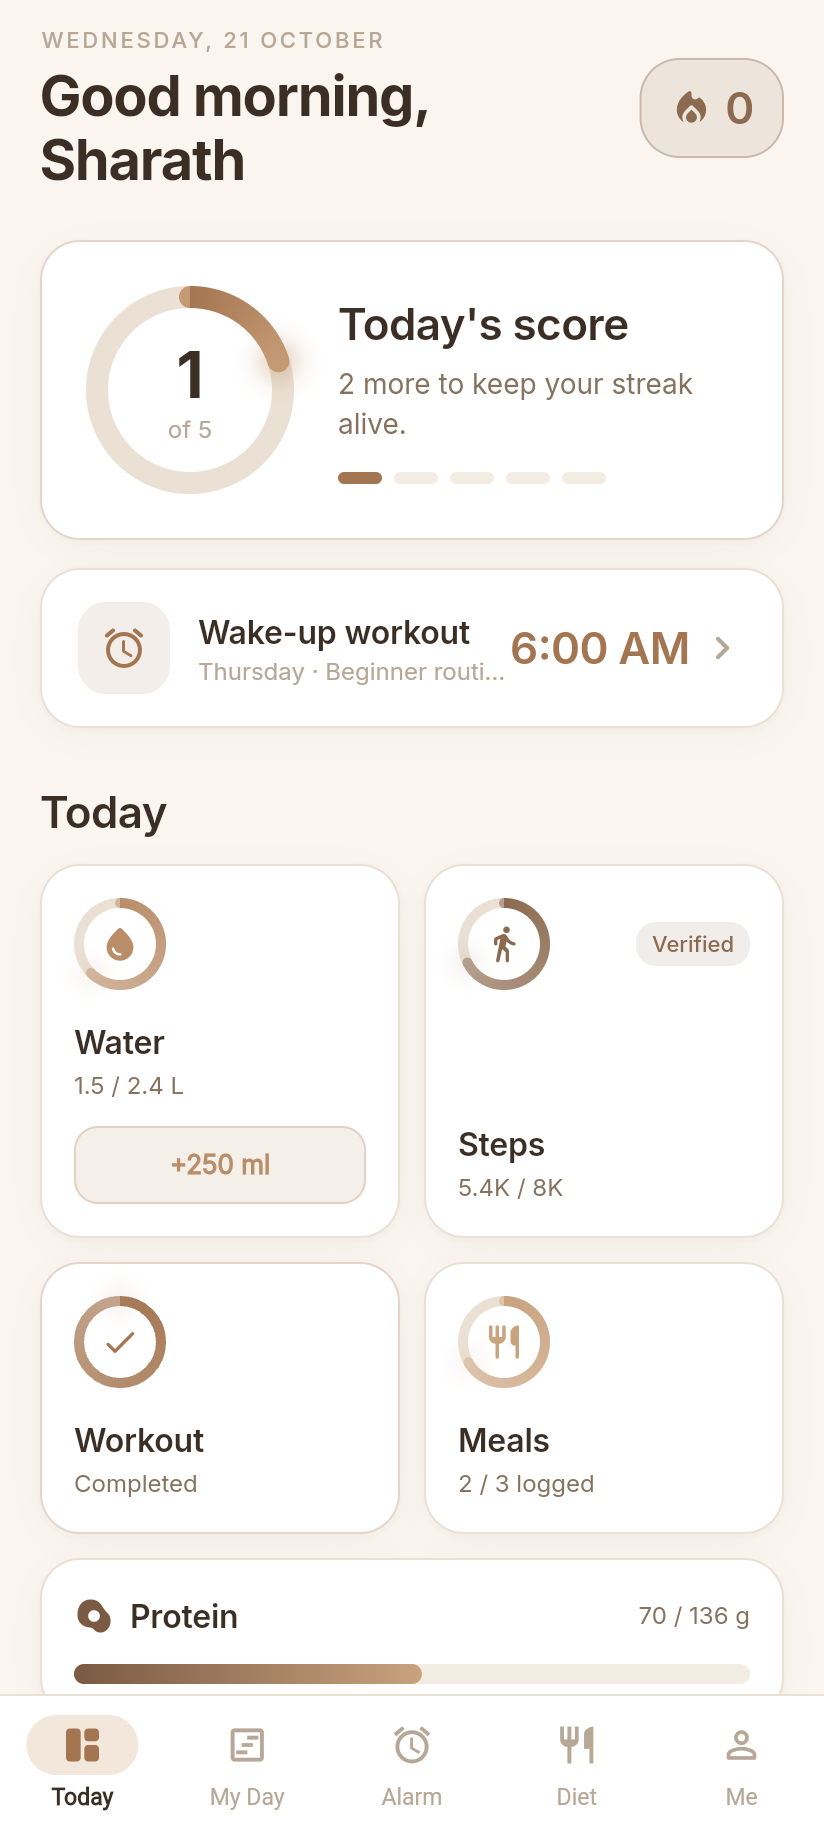
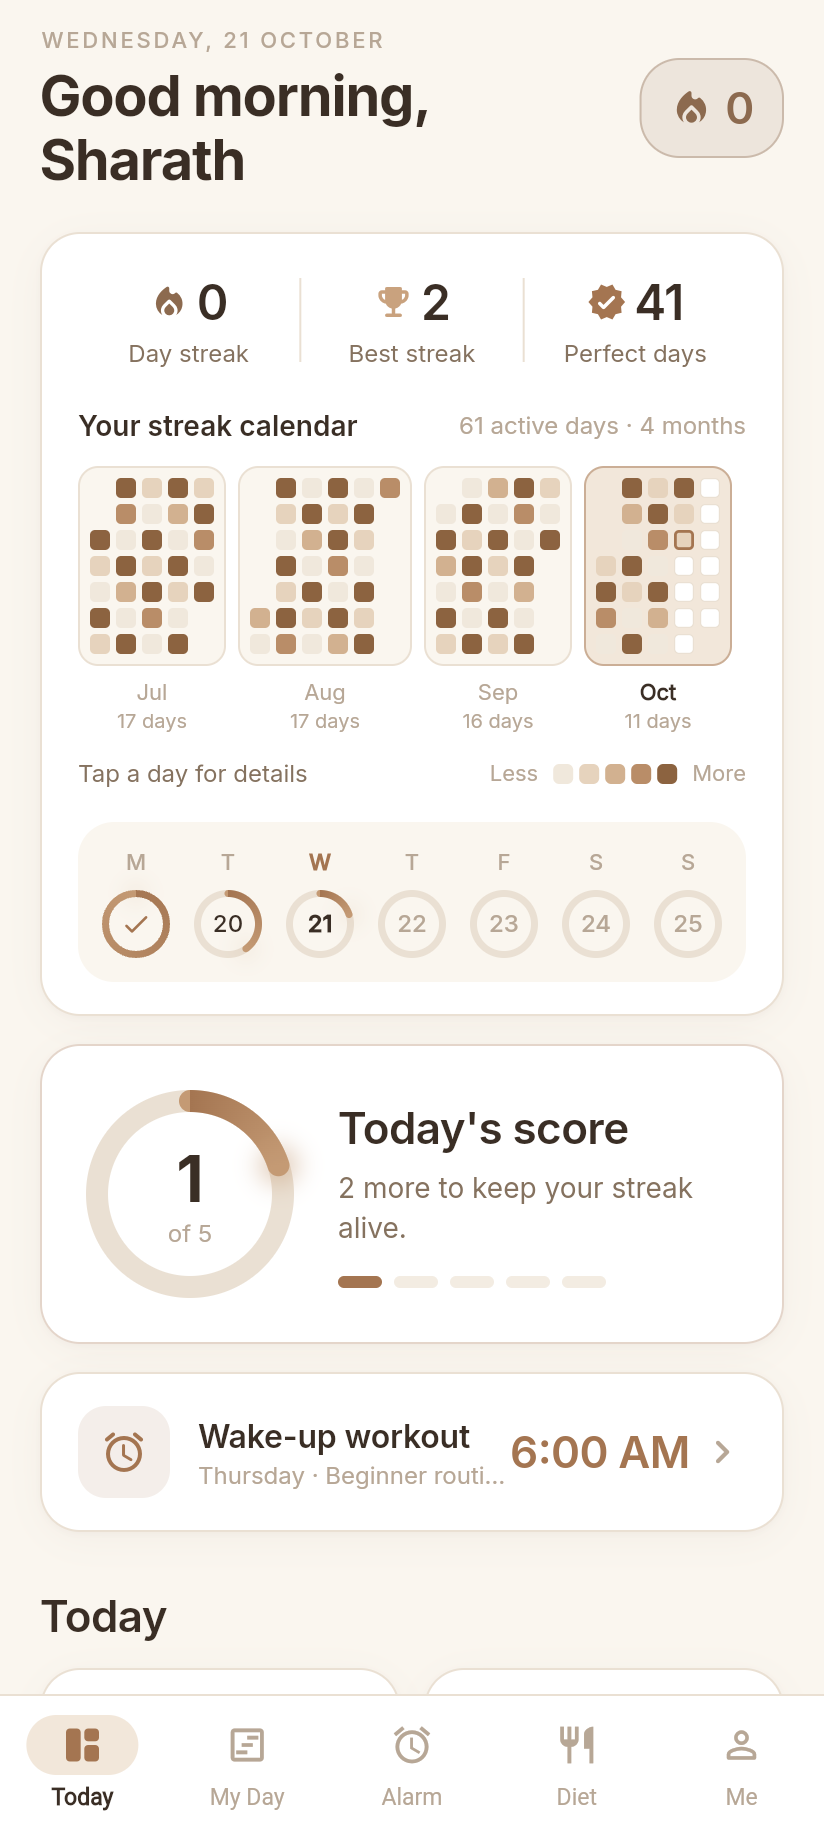
Today: streak calendar first, grouped into highlighted month blocks
Claude-Session: https://claude.ai/code/session_01TvF5P651VgJYdNxTh8xrqw

diff --git a/lib/features/streaks/widgets/activity_heatmap.dart b/lib/features/streaks/widgets/activity_heatmap.dart
@@ -1,3 +1,5 @@
+import 'dart:math' as math;
+
 import 'package:flutter/material.dart';
 import 'package:flutter/services.dart';
 import 'package:intl/intl.dart';
@@ -5,25 +7,27 @@ import 'package:intl/intl.dart';
 import '../../../core/theme/app_colors.dart';
 import '../domain/daily_log.dart';
 
-/// Contribution grid (weeks as columns, Mon–Sun as rows) that always fits
-/// the available width — cell size is derived from it, so there's no
-/// sideways scrolling.
+/// LeetCode-style streak calendar: one block per month (weeks as columns,
+/// Mon–Sun as rows), each on its own panel so months read as separate units.
+/// The current month is highlighted. Cell size is derived from the width so
+/// it always fits without scrolling.
 class ActivityHeatmap extends StatefulWidget {
-  const ActivityHeatmap({super.key, required this.scores, this.weeks = 17});
+  const ActivityHeatmap({super.key, required this.scores, this.months = 4});
 
   final Map<DateTime, DayScore> scores;
-  final int weeks;
+  final int months;
 
   @override
   State<ActivityHeatmap> createState() => _ActivityHeatmapState();
 }
 
 class _ActivityHeatmapState extends State<ActivityHeatmap> with SingleTickerProviderStateMixin {
-  late final _intro = AnimationController(vsync: this, duration: const Duration(milliseconds: 900))..forward();
+  late final _intro = AnimationController(vsync: this, duration: const Duration(milliseconds: 700))..forward();
   DateTime? _selected;
 
-  static const _gap = 4.0;
-  static const _labelWidth = 18.0;
+  static const _gap = 3.0;
+  static const _blockPad = 5.0;
+  static const _blockGap = 6.0;
 
   @override
   void dispose() {
@@ -31,64 +35,38 @@ class _ActivityHeatmapState extends State<ActivityHeatmap> with SingleTickerProv
     super.dispose();
   }
 
+  /// Weeks (columns) a month spans in a Monday-first grid.
+  static int columnsFor(DateTime month) {
+    final offset = DateTime(month.year, month.month).weekday - 1;
+    final days = DateUtils.getDaysInMonth(month.year, month.month);
+    return ((offset + days) / 7).ceil();
+  }
+
   @override
   Widget build(BuildContext context) {
     final today = dayOnly(DateTime.now());
-    final thisMonday = today.subtract(Duration(days: today.weekday - 1));
-    final start = thisMonday.subtract(Duration(days: 7 * (widget.weeks - 1)));
-    final labelStyle = Theme.of(context).textTheme.bodySmall?.copyWith(fontSize: 10.5, color: AppColors.textMuted);
+    final months = [for (var i = widget.months - 1; i >= 0; i--) DateTime(today.year, today.month - i)];
+    final labelStyle = Theme.of(context).textTheme.bodySmall?.copyWith(fontSize: 11);
 
     return LayoutBuilder(
       builder: (context, box) {
-        final cell = (box.maxWidth - _labelWidth - _gap * (widget.weeks - 1)) / widget.weeks;
+        final cols = months.fold(0, (n, m) => n + columnsFor(m));
+        final fixed =
+            months.length * 2 * (_blockPad + 1) + (months.length - 1) * _blockGap + (cols - months.length) * _gap;
+        final cell = math.min(16.0, (box.maxWidth - fixed) / cols).floorToDouble();
         return Column(
           crossAxisAlignment: CrossAxisAlignment.start,
           children: [
-            // Month labels, positioned over the first week of each month.
-            SizedBox(
-              height: 18,
-              child: Stack(
-                clipBehavior: Clip.none,
-                children: [
-                  for (var w = 0; w < widget.weeks; w++)
-                    if (start.add(Duration(days: 7 * w)).day <= 7)
-                      Positioned(
-                        left: _labelWidth + w * (cell + _gap),
-                        child: Text(DateFormat.MMM().format(start.add(Duration(days: 7 * w))), style: labelStyle),
-                      ),
-                ],
-              ),
-            ),
             Row(
               crossAxisAlignment: CrossAxisAlignment.start,
               children: [
-                SizedBox(
-                  width: _labelWidth,
-                  child: Column(
-                    children: [
-                      for (final l in ['M', '', 'W', '', 'F', '', 'S'])
-                        SizedBox(
-                          height: cell + _gap,
-                          child: Align(
-                            alignment: Alignment.centerLeft,
-                            child: Text(l, style: labelStyle),
-                          ),
-                        ),
-                    ],
-                  ),
-                ),
-                for (var w = 0; w < widget.weeks; w++)
-                  Padding(
-                    padding: EdgeInsets.only(right: w == widget.weeks - 1 ? 0 : _gap),
-                    child: Column(
-                      children: [
-                        for (var d = 0; d < 7; d++) _cell(start.add(Duration(days: 7 * w + d)), today, w, cell),
-                      ],
-                    ),
-                  ),
+                for (final (i, m) in months.indexed) ...[
+                  if (i > 0) const SizedBox(width: _blockGap),
+                  _month(m, today, cell, i, labelStyle),
+                ],
               ],
             ),
-            const SizedBox(height: 10),
+            const SizedBox(height: 12),
             Row(
               children: [
                 Expanded(
@@ -109,8 +87,8 @@ class _ActivityHeatmapState extends State<ActivityHeatmap> with SingleTickerProv
                 const SizedBox(width: 6),
                 for (final c in AppColors.heat)
                   Container(
-                    width: 11,
-                    height: 11,
+                    width: 10,
+                    height: 10,
                     margin: const EdgeInsets.symmetric(horizontal: 1.5),
                     decoration: BoxDecoration(color: c, borderRadius: BorderRadius.circular(3)),
                   ),
@@ -124,51 +102,96 @@ class _ActivityHeatmapState extends State<ActivityHeatmap> with SingleTickerProv
     );
   }
 
+  Widget _month(DateTime month, DateTime today, double cell, int index, TextStyle? labelStyle) {
+    final current = month.year == today.year && month.month == today.month;
+    final offset = month.weekday - 1;
+    final days = DateUtils.getDaysInMonth(month.year, month.month);
+    final cols = columnsFor(month);
+    final active = widget.scores.entries
+        .where((e) => e.key.year == month.year && e.key.month == month.month && e.value.keepsStreak)
+        .length;
+    final anim = CurvedAnimation(
+      parent: _intro,
+      curve: Interval(index * 0.15, math.min(1, index * 0.15 + 0.55), curve: Curves.easeOut),
+    );
+
+    return FadeTransition(
+      opacity: anim,
+      child: Column(
+        children: [
+          Container(
+            padding: const EdgeInsets.all(_blockPad),
+            decoration: BoxDecoration(
+              color: current ? AppColors.primarySoft : AppColors.background,
+              borderRadius: BorderRadius.circular(10),
+              border: Border.all(color: current ? AppColors.primary.withValues(alpha: 0.5) : AppColors.stroke),
+            ),
+            child: Row(
+              crossAxisAlignment: CrossAxisAlignment.start,
+              children: [
+                for (var c = 0; c < cols; c++)
+                  Padding(
+                    padding: EdgeInsets.only(right: c == cols - 1 ? 0 : _gap),
+                    child: Column(
+                      children: [
+                        for (var r = 0; r < 7; r++)
+                          Padding(
+                            padding: EdgeInsets.only(bottom: r == 6 ? 0 : _gap),
+                            child: _cell(c * 7 + r - offset + 1, month, days, today, cell),
+                          ),
+                      ],
+                    ),
+                  ),
+              ],
+            ),
+          ),
+          const SizedBox(height: 6),
+          Text(
+            DateFormat.MMM().format(month),
+            style: labelStyle?.copyWith(
+              color: current ? AppColors.textPrimary : AppColors.textMuted,
+              fontWeight: current ? FontWeight.w700 : FontWeight.w500,
+            ),
+          ),
+          Text('$active days', style: labelStyle?.copyWith(fontSize: 10, color: AppColors.textMuted)),
+        ],
+      ),
+    );
+  }
+
+  Widget _cell(int dayNumber, DateTime month, int days, DateTime today, double size) {
+    if (dayNumber < 1 || dayNumber > days) return SizedBox.square(dimension: size);
+    final day = DateTime(month.year, month.month, dayNumber);
+    final future = day.isAfter(today);
+    final level = widget.scores[day]?.level ?? 0;
+    final isToday = day == today;
+    final selected = day == _selected;
+    return GestureDetector(
+      onTap: future
+          ? null
+          : () {
+              HapticFeedback.selectionClick();
+              setState(() => _selected = selected ? null : day);
+            },
+      child: AnimatedContainer(
+        duration: const Duration(milliseconds: 200),
+        width: size,
+        height: size,
+        decoration: BoxDecoration(
+          color: future ? AppColors.surface : AppColors.heat[level],
+          borderRadius: BorderRadius.circular(size * 0.25),
+          border: selected || isToday
+              ? Border.all(color: selected ? AppColors.textPrimary : AppColors.primary, width: 1.4)
+              : (future ? Border.all(color: AppColors.stroke, width: 0.6) : null),
+        ),
+      ),
+    );
+  }
+
   String _selectedLabel() {
     final s = _selected;
     if (s == null) return 'Tap a day for details';
     final count = widget.scores[s]?.count ?? 0;
     return '${DateFormat('EEE, d MMM').format(s)} · $count of ${DayScore.total} goals';
-  }
-
-  Widget _cell(DateTime day, DateTime today, int week, double size) {
-    final future = day.isAfter(today);
-    final level = widget.scores[day]?.level ?? 0;
-    final isToday = day == today;
-    final selected = day == _selected;
-
-    // Stagger the intro so the grid fills in from left to right.
-    final begin = (week / widget.weeks) * 0.6;
-    final anim = CurvedAnimation(
-      parent: _intro,
-      curve: Interval(begin, begin + 0.4, curve: Curves.easeOut),
-    );
-
-    return Padding(
-      padding: const EdgeInsets.only(bottom: _gap),
-      child: FadeTransition(
-        opacity: anim,
-        child: GestureDetector(
-          onTap: future
-              ? null
-              : () {
-                  HapticFeedback.selectionClick();
-                  setState(() => _selected = selected ? null : day);
-                },
-          child: AnimatedContainer(
-            duration: const Duration(milliseconds: 250),
-            width: size,
-            height: size,
-            decoration: BoxDecoration(
-              color: future ? AppColors.heat[0].withValues(alpha: 0.35) : AppColors.heat[level],
-              borderRadius: BorderRadius.circular(size * 0.28),
-              border: selected || isToday
-                  ? Border.all(color: selected ? AppColors.textPrimary : AppColors.primary, width: 1.6)
-                  : null,
-            ),
-          ),
-        ),
-      ),
-    );
   }
 }

diff --git a/lib/features/streaks/widgets/consistency_card.dart b/lib/features/streaks/widgets/consistency_card.dart
@@ -19,7 +19,7 @@ class ConsistencyCard extends StatelessWidget {
   @override
   Widget build(BuildContext context) {
     final today = dayOnly(DateTime.now());
-    final from = today.subtract(const Duration(days: 7 * 17));
+    final from = DateTime(today.year, today.month - 3);
     final recent = scores.entries.where((e) => !e.key.isBefore(from));
     final perfect = recent.where((e) => e.value.count == DayScore.total).length;
     final active = recent.where((e) => e.value.keepsStreak).length;
@@ -46,17 +46,17 @@ class ConsistencyCard extends StatelessWidget {
             ),
           ),
           const SizedBox(height: 18),
-          _WeekStrip(scores: scores, today: today),
-          const SizedBox(height: 20),
           Row(
             children: [
-              Text('Last 4 months', style: Theme.of(context).textTheme.titleSmall),
+              Text('Your streak calendar', style: Theme.of(context).textTheme.titleSmall),
               const Spacer(),
-              Text('$active active days', style: Theme.of(context).textTheme.bodySmall),
+              Text('$active active days · 4 months', style: Theme.of(context).textTheme.bodySmall),
             ],
           ),
           const SizedBox(height: 10),
           ActivityHeatmap(scores: scores),
+          const SizedBox(height: 16),
+          _WeekStrip(scores: scores, today: today),
         ],
       ),
     );

diff --git a/lib/features/home/home_screen.dart b/lib/features/home/home_screen.dart
@@ -36,7 +36,10 @@ class HomeScreen extends ConsumerWidget {
 
     final sections = <Widget>[
       _Header(name: profile.name, streak: streak.current),
-      const SizedBox(height: 24),
+      const SizedBox(height: 20),
+      // The streak calendar leads the page — it's the habit we want to build.
+      ConsistencyCard(scores: scores, current: streak.current, longest: streak.longest),
+      const SizedBox(height: 14),
       _ScoreCard(score: score),
       const SizedBox(height: 14),
       const _NextAlarmCard(),
@@ -44,10 +47,6 @@ class HomeScreen extends ConsumerWidget {
       const _SectionTitle('Today'),
       const SizedBox(height: 12),
       _TaskGrid(log: log, targets: targets, score: score),
-      const SizedBox(height: 28),
-      const _SectionTitle('Consistency'),
-      const SizedBox(height: 12),
-      ConsistencyCard(scores: scores, current: streak.current, longest: streak.longest),
       const SizedBox(height: 32),
     ];
 

diff --git a/test/app_flow_test.dart b/test/app_flow_test.dart
@@ -90,7 +90,7 @@ void main() {
       // Alarm tab: alarm card, then the editor sheet.
       await _tap(t, 'Alarm');
       expect(find.text('Alarms'), findsOneWidget);
-      expect(find.textContaining('Beginner routine'), findsOneWidget);
+      expect(find.text('Beginner routine'), findsOneWidget); // the alarm card's routine tag
       await t.tap(find.byIcon(Icons.add_rounded).first);
       await _wait(t);
       expect(find.text('New alarm'), findsOneWidget);
